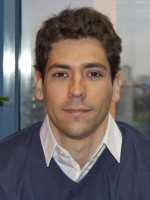
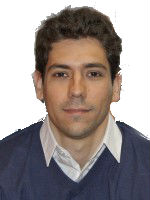
Brandan

diff --git a/src/index.html b/src/index.html
@@ -71,7 +71,7 @@
     </tbody>-->
     <tbody>
       <tr>
-        <td><img src="images/carnet1.png" style="max-width: 70px;"></td>
+        <td><img src="images/mal.jpg" style="max-width: 70px;"></td>
         <th scope="row">Miguel Angel</th>
         <td>Uber</td>
         <td>19.4</td>
@@ -81,8 +81,8 @@
         <td><button class="btn btn-default" style="background-color:rgb(250, 82, 82);"><span class="glyphicon glyphicon-ok"></button></span></td>
       </tr>
       <tr>
-        <td><img src="images/carnet2.jpg" style="max-width: 70px;"></td>
-        <th scope="row">Jose Angel</th>
+        <td><img src="images/jose.jpg" style="max-width: 70px;"></td>
+        <th scope="row">Francisco Jose</th>
         <td>Cabify</td>
         <td>23.4</td>
         <td>5</td>
@@ -91,13 +91,23 @@
         <td><button class="btn btn-default" style="background-color:rgb(250, 82, 82);"><span class="glyphicon glyphicon-ok"></button></span></td>
       </tr>
       <tr>
-        <td><img src="images/carnet3.jpg" style="max-width: 70px;"></td>
-        <th scope="row">Eduardo</th>
+        <td><img src="images/juan.jpg" style="max-width: 70px;"></td>
+        <th scope="row">Juan</th>
         <td>MyTaxi</td>
         <td>11.4</td>
         <td>10</td>
         <td>23</td>
         <td>0.45</td>
+        <td><button class="btn btn-default" style="background-color:rgb(250, 82, 82);"><span class="glyphicon glyphicon-ok"></button></span></td>
+      </tr>
+      <tr>
+        <td><img src="images/brandan.jpg" style="max-width: 70px;"></td>
+        <th scope="row">Brandan</th>
+        <td>Uber</td>
+        <td>18.4</td>
+        <td>2</td>
+        <td>21</td>
+        <td>0.2</td>
         <td><button class="btn btn-default" style="background-color:rgb(250, 82, 82);"><span class="glyphicon glyphicon-ok"></button></span></td>
       </tr>
     </tbody>
